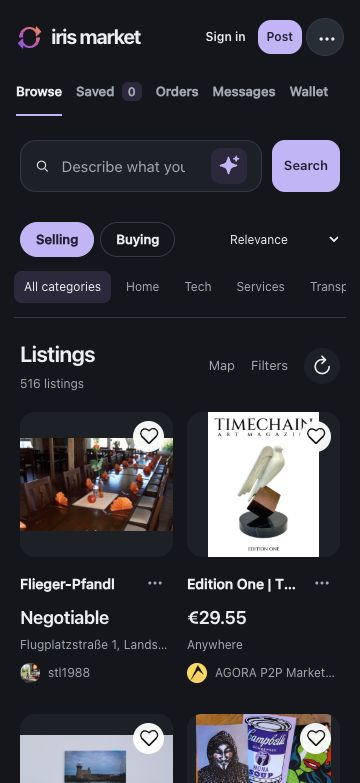
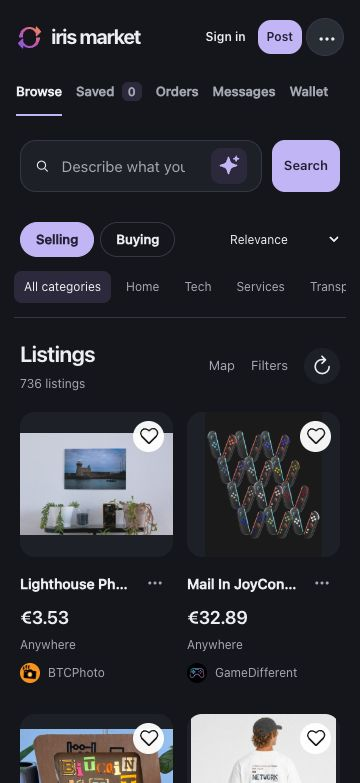
Refresh marketplace screenshots and published install guidance

diff --git a/site/index.html b/site/index.html
@@ -1,4 +1,4 @@
-<!doctype html><html lang="en"><head><meta charset="utf-8"><meta name="viewport" content="width=device-width,initial-scale=1"><meta name="color-scheme" content="light dark"><meta name="description" content="Iris Market for iOS, Android and the command line."><title>Get Iris Market</title><link rel="icon" href="./icon.svg" type="image/svg+xml"><link rel="stylesheet" href="./styles.css"><script src="./theme-init.js"></script><script type="module" src="./app.js"></script></head><body class="download-site"><a class="skip" href="#main">Skip to downloads</a><header class="header"><a class="brand" href="./"><img src="./icon.svg" width="30" height="30" alt="">iris market</a><div class="header-actions"><button class="theme-toggle" role="switch" aria-checked="false" aria-label="Switch to dark mode"><span class="theme-sun"><svg viewBox="0 0 24 24" aria-hidden="true"><path fill="currentColor" d="M11 1h2v3h-2zm0 19h2v3h-2zM1 11h3v2H1zm19 0h3v2h-3zM4.2 2.8l2.1 2.1-1.4 1.4-2.1-2.1zm15.5 14.9 2.1 2.1-1.4 1.4-2.1-2.1zM2.8 19.8l2.1-2.1 1.4 1.4-2.1 2.1zM17.7 4.9l2.1-2.1 1.4 1.4-2.1 2.1z"/><circle fill="currentColor" cx="12" cy="12" r="5"/></svg></span><span class="theme-moon"><svg viewBox="0 0 24 24" aria-hidden="true"><path fill="currentColor" d="M20.7 15.1A9.4 9.4 0 0 1 8.9 3.3 9.5 9.5 0 1 0 20.7 15.1Z"/></svg></span></button><a class="button quiet" href="https://github.com/irislib/iris-market">Source</a><a class="button primary" href="https://market.iris.to">Browse <span aria-hidden="true">↗</span></a></div></header><main id="main" class="download-main"><section class="download-intro"><div class="download-copy"><h1>Iris Market</h1><p class="muted">Web, iOS, Android, macOS, and CLI</p><div class="download-options"><div class="download-option"><div><strong>iOS</strong><p>Internal alpha · iOS 16+</p></div><a href="https://github.com/irislib/iris-market#ios-simulator">Build instructions ↗</a></div><div class="download-option"><div><strong>Android</strong><p>Alpha · Android 10+ · ARM64</p></div><a href="https://github.com/irislib/iris-market/releases/download/v0.1.1-alpha.1/iris-market-v0.1.1-alpha.1-android-arm64.apk">Download APK ↗</a></div><div class="download-option"><div><strong>macOS</strong><p>Alpha · macOS 14+ · Apple silicon</p></div><a href="https://github.com/irislib/iris-market/releases/download/v0.1.1-alpha.1/iris-market-v0.1.1-alpha.1-macos-arm64.zip">Download ↗</a></div><div class="download-option"><div><strong>Windows</strong><p>Web app · browser install</p></div><a href="https://market.iris.to/">Open web app ↗</a></div><div class="download-option"><div><strong>CLI</strong><p>Rust · JSON and MCP</p></div><a href="#cli">Get started ↓</a></div></div><p class="small muted"><a href="https://github.com/irislib/iris-market/releases/tag/v0.1.1-alpha.1">Alpha release notes ↗</a></p><p class="small"><a class="readme-link" href="irismarket://open">Open installed app ↗</a></p></div><div class="phone-preview"><img class="screen-light" src="./app-light.jpg" width="360" height="783" alt="Iris Market web app in light mode"><img class="screen-dark" src="./app-dark.jpg" width="360" height="783" alt="Iris Market web app in dark mode"></div></section><section class="feature-list" aria-label="Capabilities"><div><h2>Selling and buying</h2><p>Browse goods, services and tasks shared over Nostr.</p></div><div><h2>Private messages</h2><p>Encrypted conversations on web and native apps.</p></div><div><h2>Optional AI</h2><p>Search with a local model on your device.</p></div><div><h2>Maps and transport</h2><p>Explore nearby listings and arrange deliveries or rides.</p></div></section><section id="cli" class="cli-section"><div><h2>Command line</h2><p>Install the CLI, try an offline preview, or connect an assistant through MCP. Live profiles use a secret supplied through secure credential storage.</p><a class="readme-link" href="https://github.com/irislib/iris-market#agent-tools">CLI and MCP reference ↗</a></div><div class="code"><pre id="install-code">cargo install iris-market --version 0.1.1 --locked
+<!doctype html><html lang="en"><head><meta charset="utf-8"><meta name="viewport" content="width=device-width,initial-scale=1"><meta name="color-scheme" content="light dark"><meta name="description" content="Iris Market for iOS, Android and the command line."><title>Get Iris Market</title><link rel="icon" href="./icon.svg" type="image/svg+xml"><link rel="stylesheet" href="./styles.css"><script src="./theme-init.js"></script><script type="module" src="./app.js"></script></head><body class="download-site"><a class="skip" href="#main">Skip to downloads</a><header class="header"><a class="brand" href="./"><img src="./icon.svg" width="30" height="30" alt="">iris market</a><div class="header-actions"><button class="theme-toggle" role="switch" aria-checked="false" aria-label="Switch to dark mode"><span class="theme-sun"><svg viewBox="0 0 24 24" aria-hidden="true"><path fill="currentColor" d="M11 1h2v3h-2zm0 19h2v3h-2zM1 11h3v2H1zm19 0h3v2h-3zM4.2 2.8l2.1 2.1-1.4 1.4-2.1-2.1zm15.5 14.9 2.1 2.1-1.4 1.4-2.1-2.1zM2.8 19.8l2.1-2.1 1.4 1.4-2.1 2.1zM17.7 4.9l2.1-2.1 1.4 1.4-2.1 2.1z"/><circle fill="currentColor" cx="12" cy="12" r="5"/></svg></span><span class="theme-moon"><svg viewBox="0 0 24 24" aria-hidden="true"><path fill="currentColor" d="M20.7 15.1A9.4 9.4 0 0 1 8.9 3.3 9.5 9.5 0 1 0 20.7 15.1Z"/></svg></span></button><a class="button quiet" href="https://github.com/irislib/iris-market">Source</a><a class="button primary" href="https://market.iris.to">Browse <span aria-hidden="true">↗</span></a></div></header><main id="main" class="download-main"><section class="download-intro"><div class="download-copy"><h1>Iris Market</h1><p class="muted">Web, iOS, Android, macOS, and CLI</p><div class="download-options"><div class="download-option"><div><strong>iOS</strong><p>Internal TestFlight · iOS 16+</p></div><a href="https://github.com/irislib/iris-market#ios-simulator">Build instructions ↗</a></div><div class="download-option"><div><strong>Android</strong><p>Alpha · Android 10+ · ARM64</p></div><a href="https://github.com/irislib/iris-market/releases/download/v0.1.1-alpha.1/iris-market-v0.1.1-alpha.1-android-arm64.apk">Download APK ↗</a></div><div class="download-option"><div><strong>macOS</strong><p>Alpha · macOS 14+ · Apple silicon</p></div><a href="https://github.com/irislib/iris-market/releases/download/v0.1.1-alpha.1/iris-market-v0.1.1-alpha.1-macos-arm64.zip">Download ↗</a></div><div class="download-option"><div><strong>Windows</strong><p>Web app · browser install</p></div><a href="https://market.iris.to/">Open web app ↗</a></div><div class="download-option"><div><strong>CLI</strong><p>Rust · JSON and MCP</p></div><a href="#cli">Get started ↓</a></div></div><p class="small muted"><a href="https://github.com/irislib/iris-market/releases/tag/v0.1.1-alpha.1">Alpha release notes ↗</a></p><p class="small"><a class="readme-link" href="irismarket://open">Open installed app ↗</a></p></div><div class="phone-preview"><img class="screen-light" src="./app-light.jpg" width="360" height="783" alt="Iris Market web app in light mode"><img class="screen-dark" src="./app-dark.jpg" width="360" height="783" alt="Iris Market web app in dark mode"></div></section><section class="feature-list" aria-label="Capabilities"><div><h2>Selling and buying</h2><p>Browse goods, services and tasks shared over Nostr.</p></div><div><h2>Private messages</h2><p>Encrypted conversations on web and native apps.</p></div><div><h2>Optional AI</h2><p>Search with a local model on your device.</p></div><div><h2>Maps and transport</h2><p>Explore nearby listings and arrange deliveries or rides.</p></div></section><section id="cli" class="cli-section"><div><h2>Command line</h2><p>Install the CLI, try an offline preview, or connect an assistant through MCP. Live profiles use a secret supplied through secure credential storage.</p><a class="readme-link" href="https://github.com/irislib/iris-market#agent-tools">CLI and MCP reference ↗</a></div><div class="code"><pre id="install-code">cargo install iris-market --version 0.1.2 --locked
 iris-market --help
 iris-market tools
 iris-market preview ./preview-data</pre><button id="copy-install">Copy commands</button></div></section></main><footer class="footer"><span>Iris Market · Development preview</span><div><a href="https://market.iris.to">Marketplace</a><a href="https://github.com/irislib/iris-market">GitHub</a><a id="hashtree-source" href="https://git.iris.to/#/npub1xdhnr9mrv47kkrn95k6cwecearydeh8e895990n3acntwvmgk2dsdeeycm/iris-market">Hashtree</a></div><button id="appearance-settings" class="text-button">Settings</button></footer><dialog id="preferences-dialog" class="settings-dialog"><button class="dialog-close icon-button" aria-label="Close settings">×</button><h2>Settings</h2><label>Appearance<select class="theme-select" aria-label="Appearance"><option value="system">System</option><option value="light">Light</option><option value="dark">Dark</option></select></label></dialog></body></html>

diff --git a/README.md b/README.md
@@ -15,11 +15,11 @@ A general marketplace for things, skills and opportunities. Native iOS, Android 
 - Relevance combines search matches, optional AI scores, social connections, freshness, saved categories and nearby listings when location is known. Social and Newest are separate sort choices. The unfiltered Selling feed starts with photos; Filters can include listings without them. Saved items remain in Browse.
 - Listing maps use the same pinned Hashtree basemap as Iris Maps, with a bounded public-data cache and markers from signed geohash tags.
 - The browser creator offers optional delivery destinations and a fixed delivery cost, plus Delivery / Passenger ride / Both for transport listings. Price can stay blank for negotiation; payment conditions remain in the description. Delivery options use the draft extension described below. Native delivery-option creation is pending.
-- Listing expiry is optional, with relative presets in the browser. The signed event retains an absolute deadline, and expired listings stay hidden. Native expiry controls have passed iOS, macOS and Android build and focused UI checks; they are pending the next signed native release.
+- Listing expiry is optional, with relative presets in the browser and native source. The signed event retains an absolute deadline, and expired listings stay hidden.
 - One search field for text or optional AI matching. Browser-local AI can prepare its local model automatically, with inline progress, cancellation and a Show all override. It is experimental; marketplace accuracy is not established.
 - Named CLI commands, a local JSON action interface and MCP stdio tools for search, publication, saved listings, contact, messages and private orders.
 
-This is a development prototype. The browser includes an optional Cashu wallet; shipping guarantees, escrow, automatic earlier-history transfer, group conversations and saved matching watches are not implemented. Native Cashu adapters and secure seed storage are present behind the disabled `cashu-wallet` feature; native wallet compilation and UI acceptance are pending. Native local AI supports Apple’s available system model and an optional Android model download; Android inference on actual model weights remains unverified. The CLI source package is published on crates.io. Signed Android and notarized macOS downloads are available in [v0.1.1-alpha.1](https://github.com/irislib/iris-market/releases/tag/v0.1.1-alpha.1). iOS 0.1.1 (4) is available to the existing internal TestFlight group. The alpha includes the compact search action and photo-only Selling home feed; searches, Saved and profiles can include listings without photos.
+This is a development prototype. The browser includes an optional Cashu wallet; shipping guarantees, escrow, automatic earlier-history transfer, group conversations and saved matching watches are not implemented. Native Cashu adapters and secure seed storage are present behind the disabled `cashu-wallet` feature; native wallet compilation and UI acceptance are pending. Native local AI supports Apple’s available system model and an optional Android model download; Android inference on actual model weights remains unverified. The CLI source package is published on crates.io. Signed Android and notarized macOS downloads are available in [v0.1.1-alpha.1](https://github.com/irislib/iris-market/releases/tag/v0.1.1-alpha.1). iOS 0.1.2 (5) is available to the existing internal TestFlight group, with relative expiry, known followers and an editable AI test. The alpha includes the compact search action and photo-only Selling home feed; searches, Saved and profiles can include listings without photos.
 
 Web: [market.iris.to](https://market.iris.to) · [App builds and CLI](https://getmarket.iris.to). Source: [GitHub](https://github.com/irislib/iris-market). Hashtree source: [iris-market](https://git.iris.to/#/npub1xdhnr9mrv47kkrn95k6cwecearydeh8e895990n3acntwvmgk2dsdeeycm/iris-market).
 
@@ -90,13 +90,13 @@ Use the full commit and asset digests returned by `inspect`, and each immutable 
 
 The browser validates signed NIP-99 events before displaying them and retains sold/expired winning revisions to reject older replayed copies. A `?listing=<author:identifier>` link adds a narrow lookup for that listing beyond recent inventory. Default public relays match Iris Client: temp.iris.to, vault.iris.to, relay.damus.io, relay.snort.social, relay.primal.net and nos.lol. Explicit relay preferences remain unchanged. Saved IDs, relay preferences and appearance are local to the browser. The installable PWA stores a hash-verified app shell (bounded to 24 MiB) and up to 1,000 signed public listing winners (64 KiB each) in separate storage. Previously loaded listings, saved items and routed item pages can be reopened offline. Remote photos, map regions and model downloads are not guaranteed offline. Private chats, keys and wallet data never enter the public shell/listing cache. Browser quota refusal or eviction can make offline storage unavailable; failed inventory writes disable stale stored inventory. Service-worker updates wait for existing tabs to close and never reload an active draft or order. The Open app link opens an installed native client; it does not yet hand off the selected listing or implement universal links.
 
-Browser text and AI search both commit on Enter or Search. Clearing the field resets the search immediately, including a running AI pass. Browsing shows 24 cards, adds two batches automatically as the user scrolls, then uses an explicit Load more button. Each added window displays matches as they arrive; neither a complete batch nor all source replies are needed before showing a verified match. The AI status reports matches without exposing its internal batch target. The top-right menu contains Courier, Settings, Get app and Light/Dark/System controls. Profile management lives at `/settings/profile`; the avatar opens the public `/npub…` profile.
+Browser text and AI search both commit on Enter or Search. Clearing the field resets the search immediately, including a running AI pass. Browsing shows 24 cards, adds two batches automatically as the user scrolls, then uses an explicit Load more button. Each added window displays matches as they arrive; neither a complete batch nor all source replies are needed before showing a verified match. The AI status reports matches without exposing its internal batch target. The top-right menu contains Transport, Settings, Get app and Light/Dark/System controls. Profile management lives at `/settings/profile`; the avatar opens the public `/npub…` profile.
 
 The browser courier workspace has Find work, My jobs and My service views, with Parcel, Passenger and Both filters. Public gigs and service announcements use ordinary kind 30402 Selling/Buying listings with explicit transport topics. Area text filters apply on submit; unrelated transport listings such as buying a car are excluded. Announcing a service opens the normal editor and preview and preserves unfinished drafts. Assigned jobs and optional live location remain private. Completed-order participants can open each other's general public reviews; these are not labelled verified-purchase reviews and publish no order identifier or private route.
 
-Posting uses Selling/Buying tabs and a preview before publication. The preview never uploads selected files or requests a signature. An optional local expiry date/time writes a Nostr `expiration` timestamp; expired items disappear from lists and open details without waiting for a relay. Item pages show the original `published_at` date when valid, otherwise the event timestamp. Edits preserve that original date.
+Posting uses Selling/Buying tabs and a preview before publication. The preview never uploads selected files or requests a signature. Optional relative expiry presets write a Nostr `expiration` timestamp when publication is queued; expired items disappear from lists and open details without waiting for a relay. Item pages show the original `published_at` date when valid, otherwise the event timestamp. Edits preserve that original date.
 
-Ships to is an optional country filter under Filters. It reads verified explicit `shipping_option` references using the [draft marketplace extension linked by NIP-99](https://github.com/GammaMarkets/market-spec/blob/main/spec.md): direct kind 30406 or one collection hop through kind 30405. Pickup country tags do not imply delivery; missing details do not count as matches. Item location remains a separate filter, never an inferred shipping origin. The icon beside Ships to requests a one-time browser location and selects the country locally using bundled public-domain Natural Earth boundaries; uncertain border/coastal results leave the manual choice unchanged. The icon beside Item location selects a 50 km nearby filter. Only a position rounded to roughly 1 km remains in memory; it is not stored or sent to a geocoder. Discovery shares a coarse search area with the selected listing relays when that filter is applied. This is country coverage from observed public records, not a shipping quote or validation of weight, dimensions, regional eligibility or availability. Reads are bounded and incomplete source coverage stays partial.
+Ships to is an optional country filter under Filters. It reads verified explicit `shipping_option` references using the [draft marketplace extension linked by NIP-99](https://github.com/GammaMarkets/market-spec/blob/main/spec.md): direct kind 30406 or one collection hop through kind 30405. Pickup country tags do not imply delivery; missing details do not count as matches. Item location remains a separate filter, never an inferred shipping origin. The icon beside Ships to requests a one-time browser location and selects the country locally using bundled public-domain Natural Earth boundaries; uncertain border/coastal results leave the manual choice unchanged. The icon beside Item location selects a 50 km nearby filter. Only a position rounded to roughly 1 km remains in memory; it is not stored or sent to a geocoder. Discovery shares a coarse search area with the selected listing relays when that filter is applied. The browser product editor can also declare delivery countries and a fixed delivery cost using this public shipping-option format. Country coverage from observed records is not a shipping quote or validation of weight, dimensions, regional eligibility or availability. Reads are bounded and incomplete source coverage stays partial.
 
 ### Browser accounts and messages
 
@@ -149,7 +149,7 @@ The iOS simulator accepts `--demo`; Android accepts the boolean intent extra `de
 
 Hearts save listings locally without removing or reordering them in Browse. Incoming private messages and order updates add unread dots; opening the affected conversation or order marks it read. Own updates and ephemeral courier positions do not create unread notifications. Read markers store bounded per-profile hashes, not message text or payment tokens.
 
-Open an author from a listing to view their listings, public kind-0 metadata, following, observed followers and people in the selected network who follow that author. Browser profiles open on that author’s listings, with connections in secondary tabs. Canonical profile links use `/npub…`; listings use `/npub…/<identifier>` or a NIP-19 `naddr`. Editing an addressable listing preserves its link. Query-based links remain supported for static directory mounts. Profile and follow-list events are signature-checked before they reach `nostr-social-graph`; winner selection follows creation time and the lowest event ID on a tie. Native and web relationship presentation reuses the Iris Chat rules with its MIT attribution preserved.
+Open an author from a listing to view their listings, public kind-0 metadata, following, observed followers and people in the selected network who follow that author. Profiles open on that author’s listings. The header names up to three known followers, with a link to the rest; known followers appear first in Followers rather than in a separate tab. Canonical profile links use `/npub…`; listings use `/npub…/<identifier>` or a NIP-19 `naddr`. Editing an addressable listing preserves its link. Query-based links remain supported for static directory mounts. Profile and follow-list events are signature-checked before they reach `nostr-social-graph`; winner selection follows creation time and the lowest event ID on a tie. Native and web relationship presentation reuses the Iris Chat rules with its MIT attribution preserved.
 
 Native profiles fetch signed author listings independently of Browse and show cached listings immediately. Load more expands the author query in batches of 48, up to 240 listings. The public subscription closes when leaving the profile or after 30 seconds; available results reflect observed relay records, not exhaustive history.
 
@@ -214,7 +214,7 @@ The ordinary home feed is photo-first, but does not use an automatic “delightf
 Install the published CLI from [crates.io](https://crates.io/crates/iris-market):
 
 ```sh
-cargo install iris-market --version 0.1.1 --locked
+cargo install iris-market --version 0.1.2 --locked
 ```
 
 The executable is `iris-market`. Source builds use `cargo build --locked -p iris-market`.

diff --git a/crates/market-cli/README.md b/crates/market-cli/README.md
@@ -3,7 +3,7 @@
 Command-line client and MCP server for Iris Market, a marketplace using signed Nostr listings and private encrypted enquiries.
 
 ```sh
-cargo install iris-market --version 0.1.0 --locked
+cargo install iris-market --locked
 iris-market --help
 iris-market tools
 iris-market preview ./market-preview
